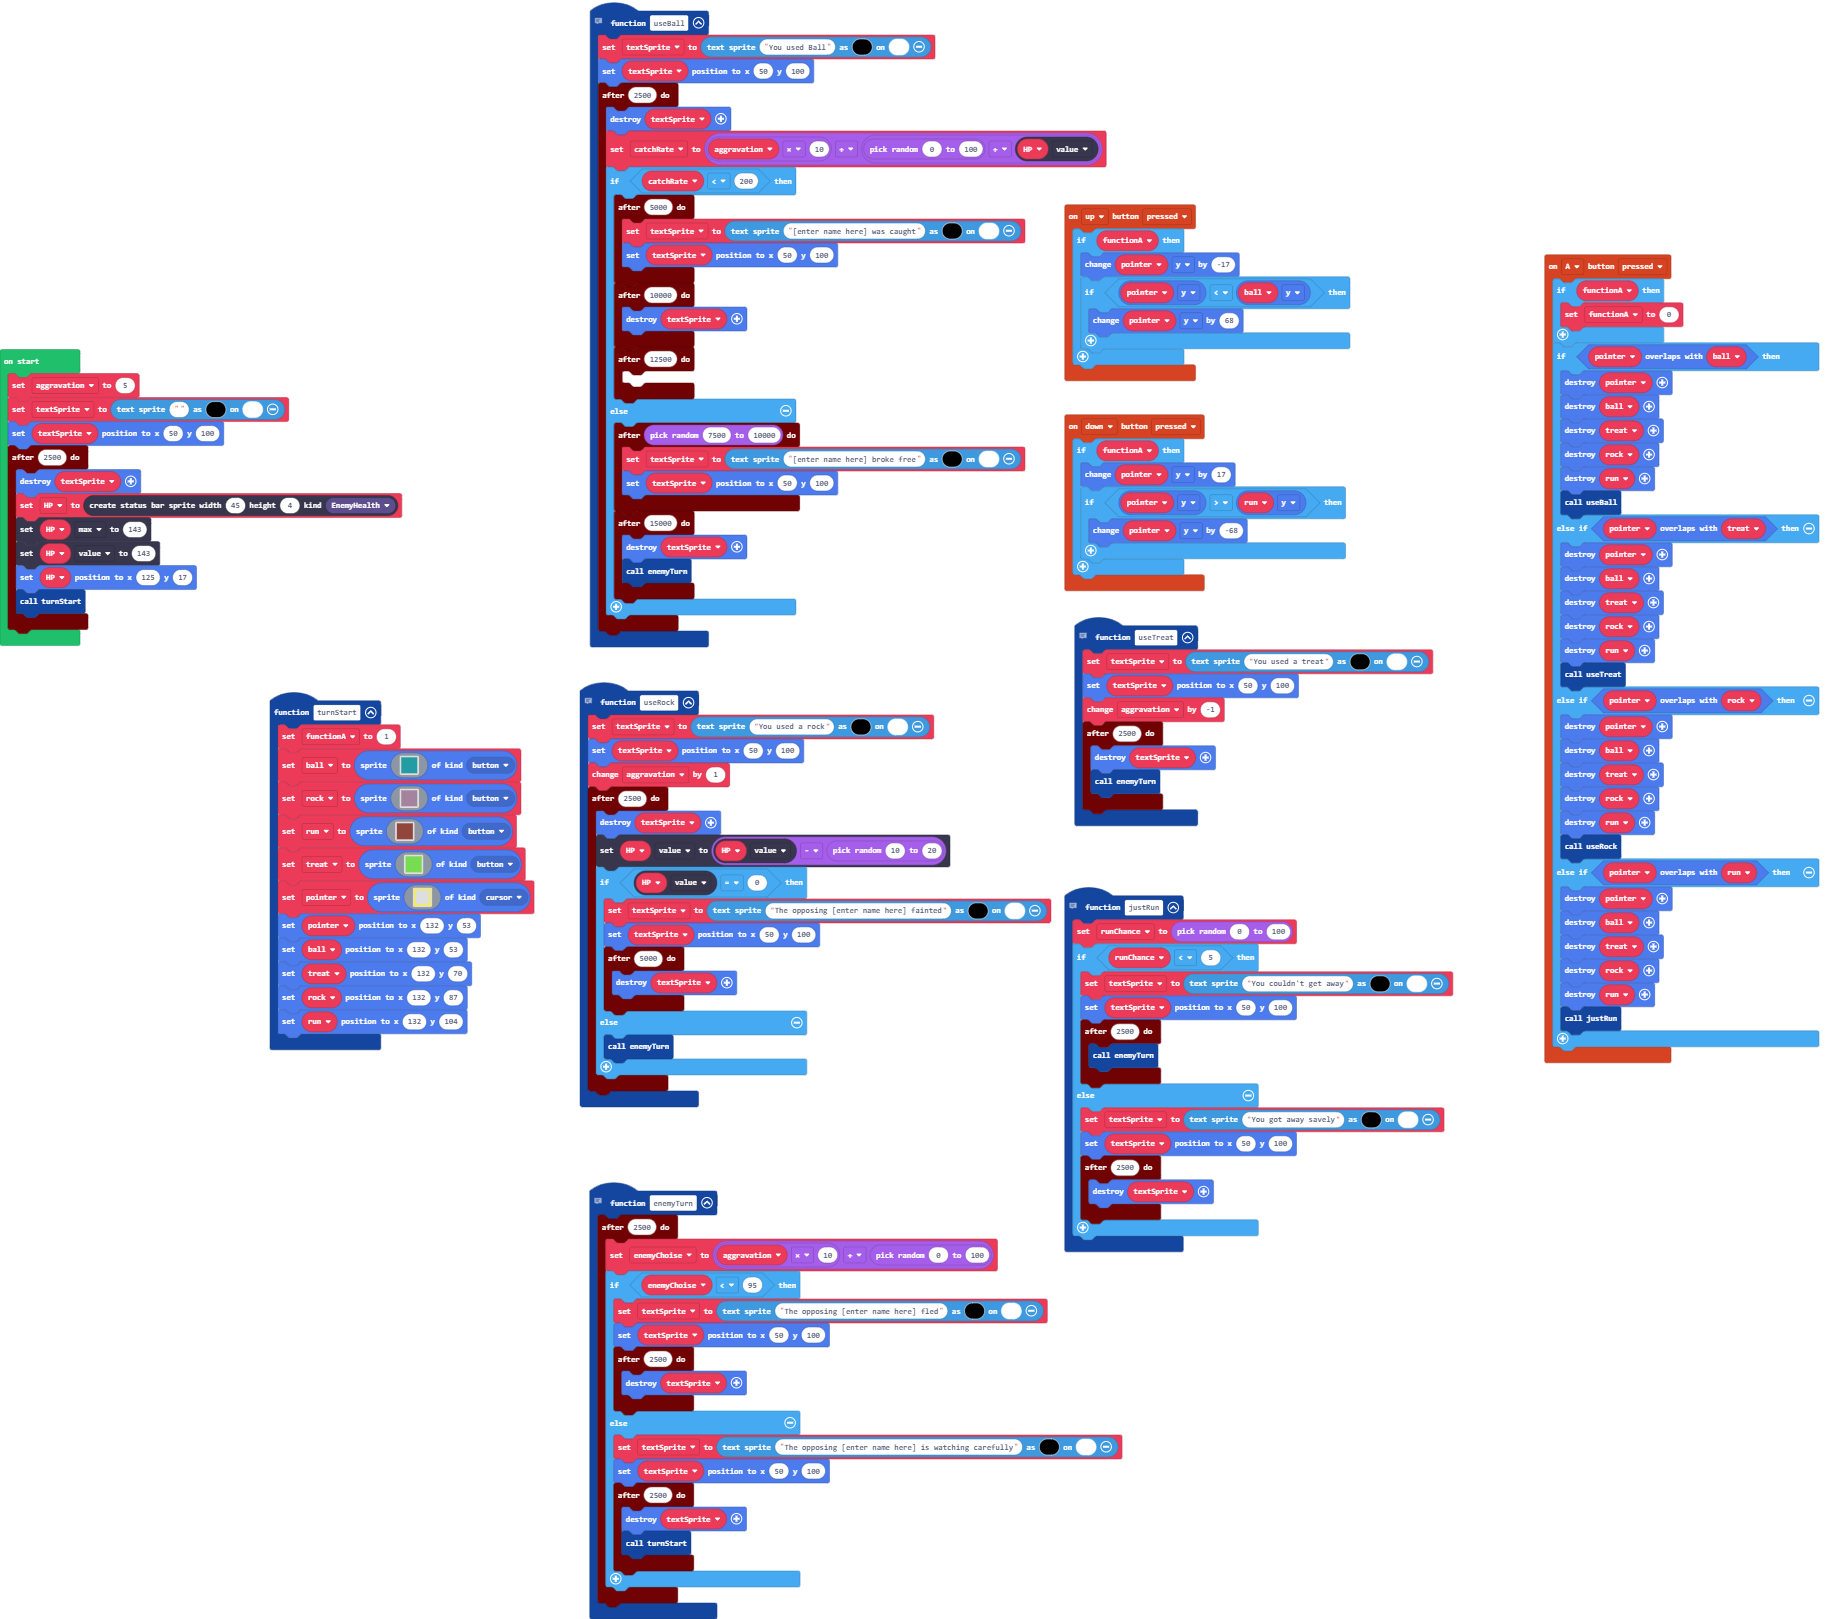
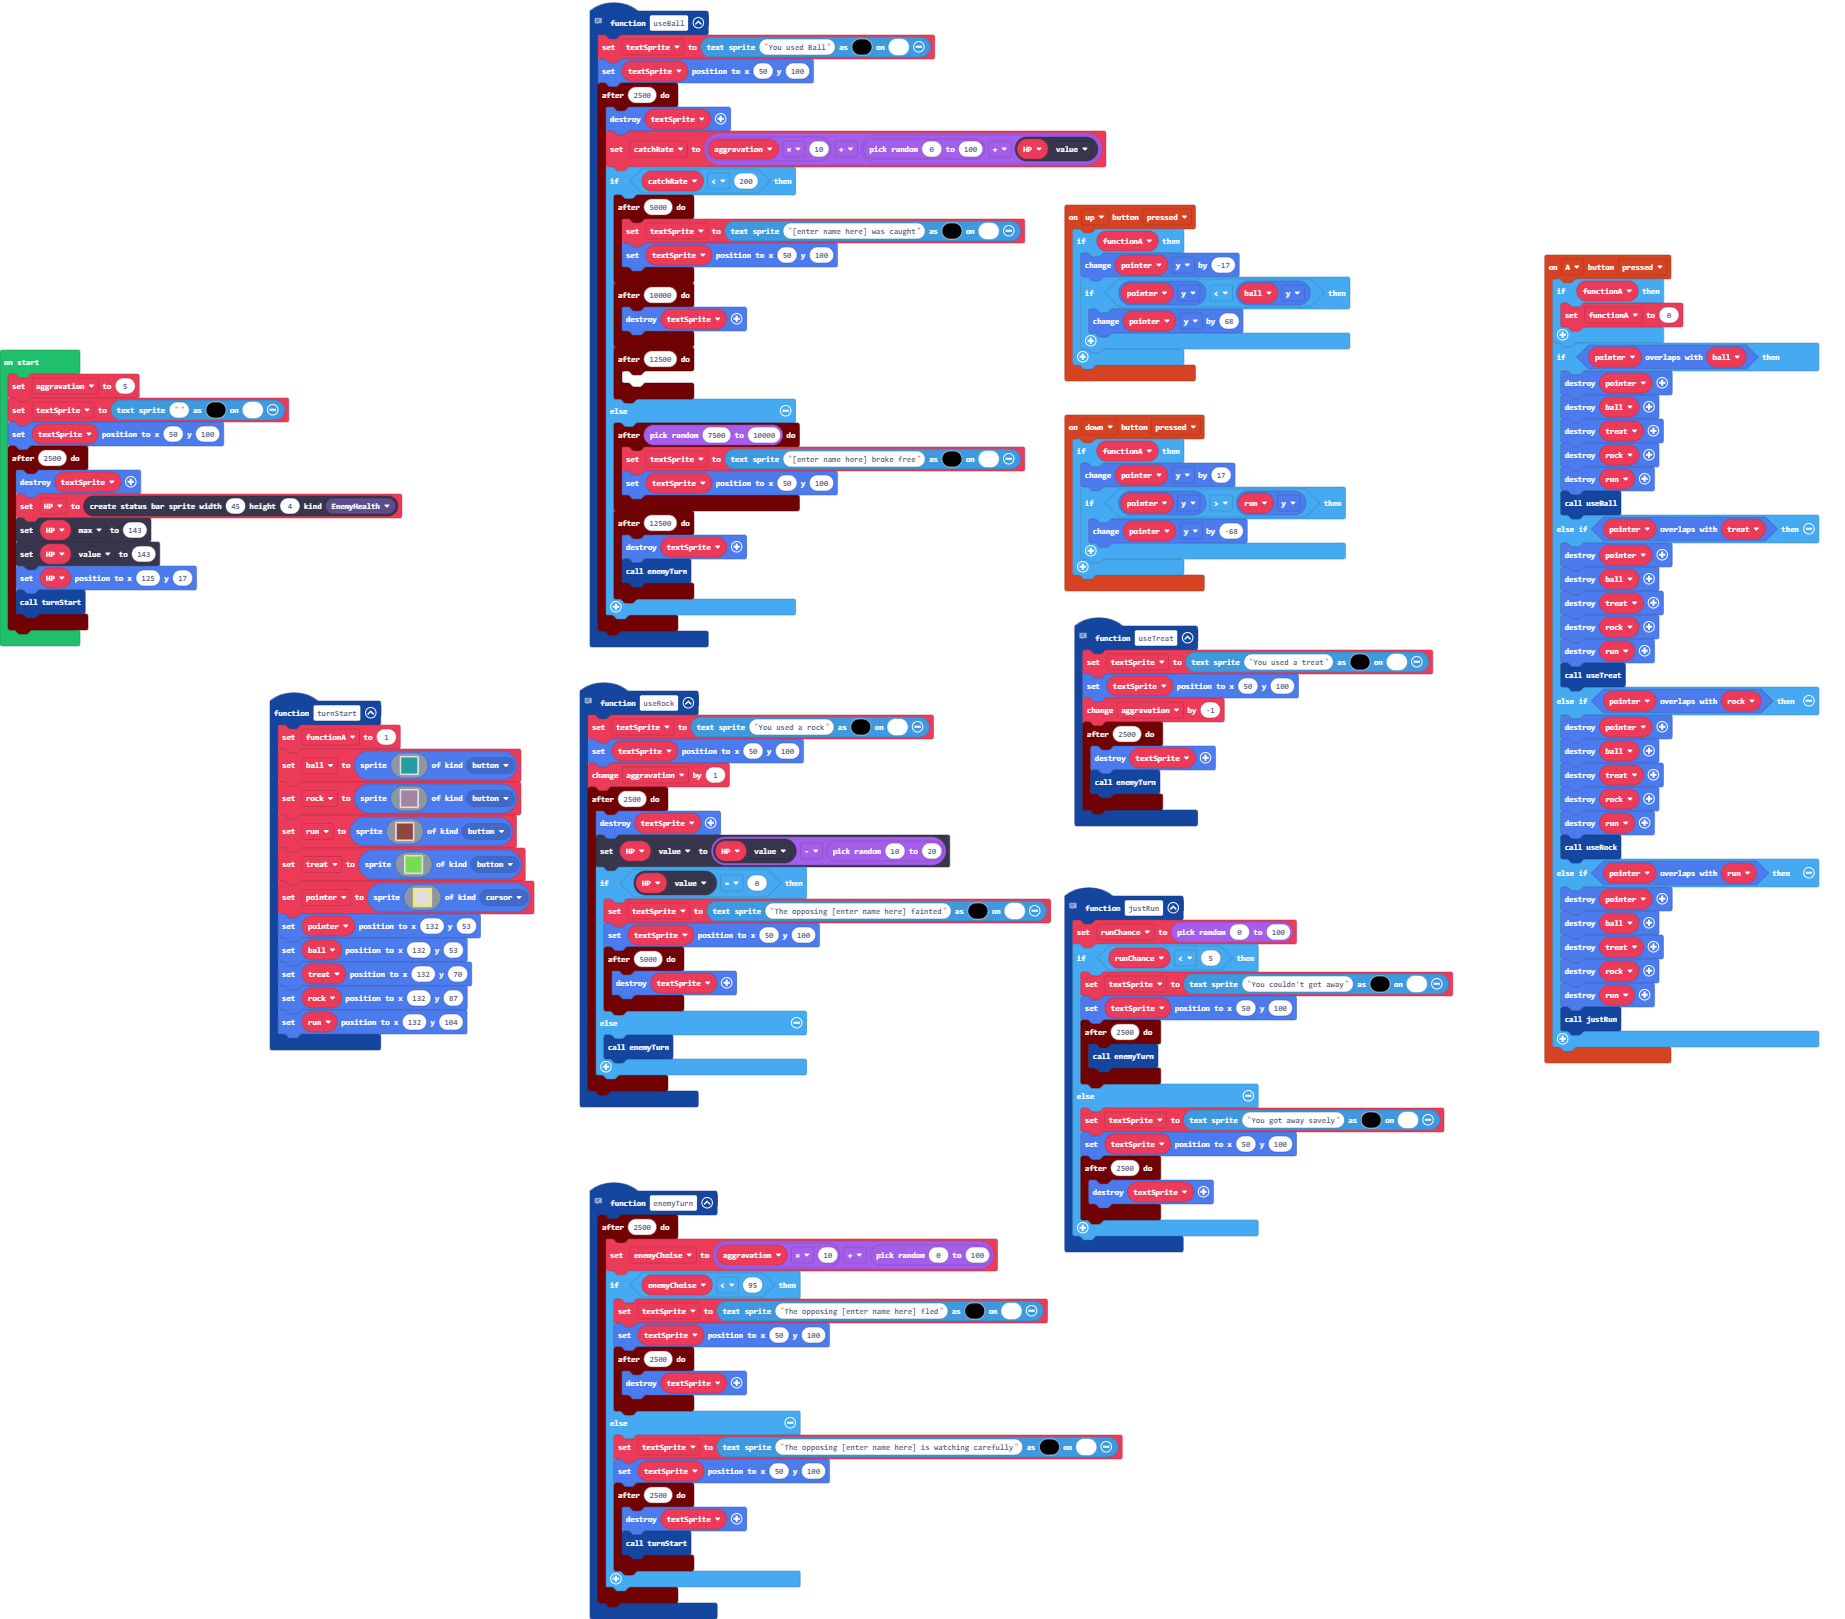
minor bug fix

diff --git a/main.ts b/main.ts
@@ -239,7 +239,7 @@ function useBall () {
                 textSprite = textsprite.create("[enter name here] broke free", 1, 15)
                 textSprite.setPosition(50, 100)
             })
-            timer.after(15000, function () {
+            timer.after(12500, function () {
                 textSprite.destroy()
                 enemyTurn()
             })
